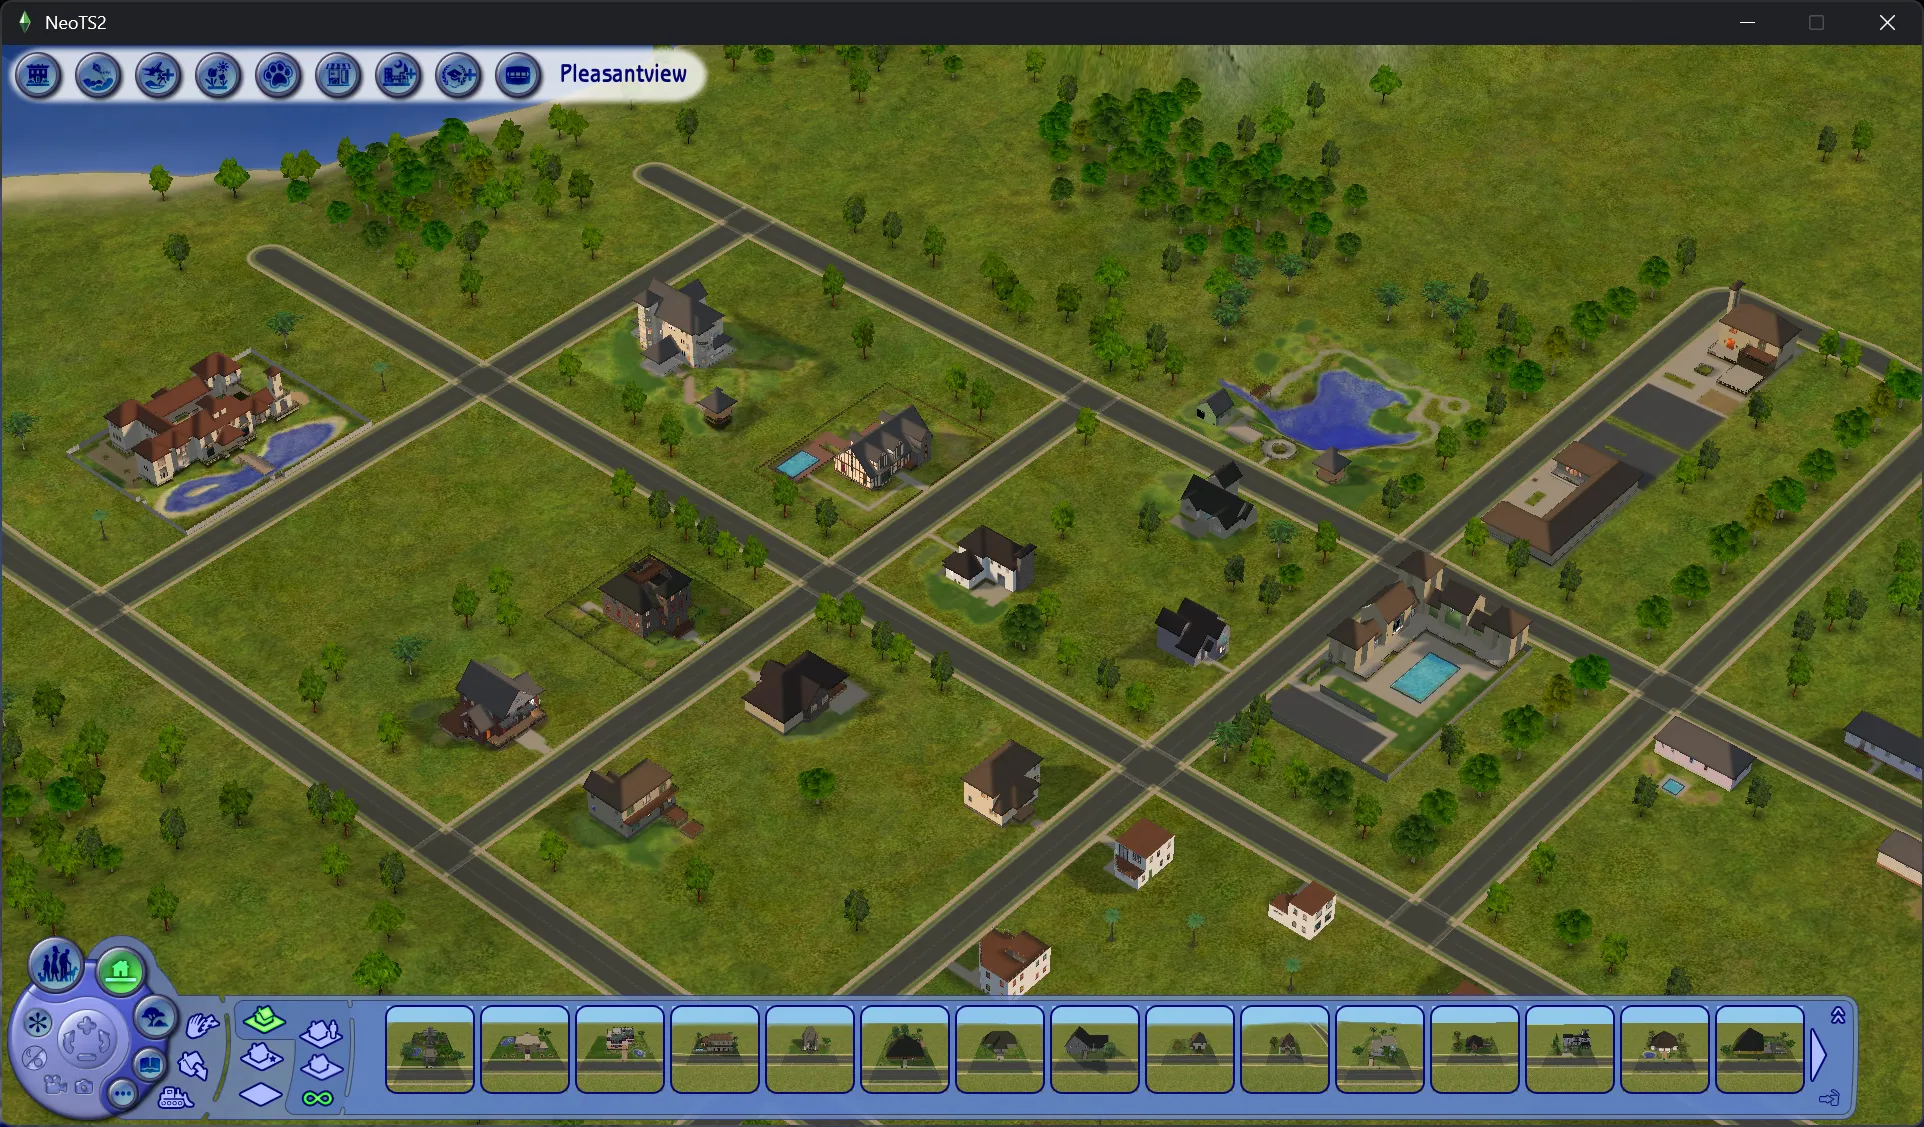
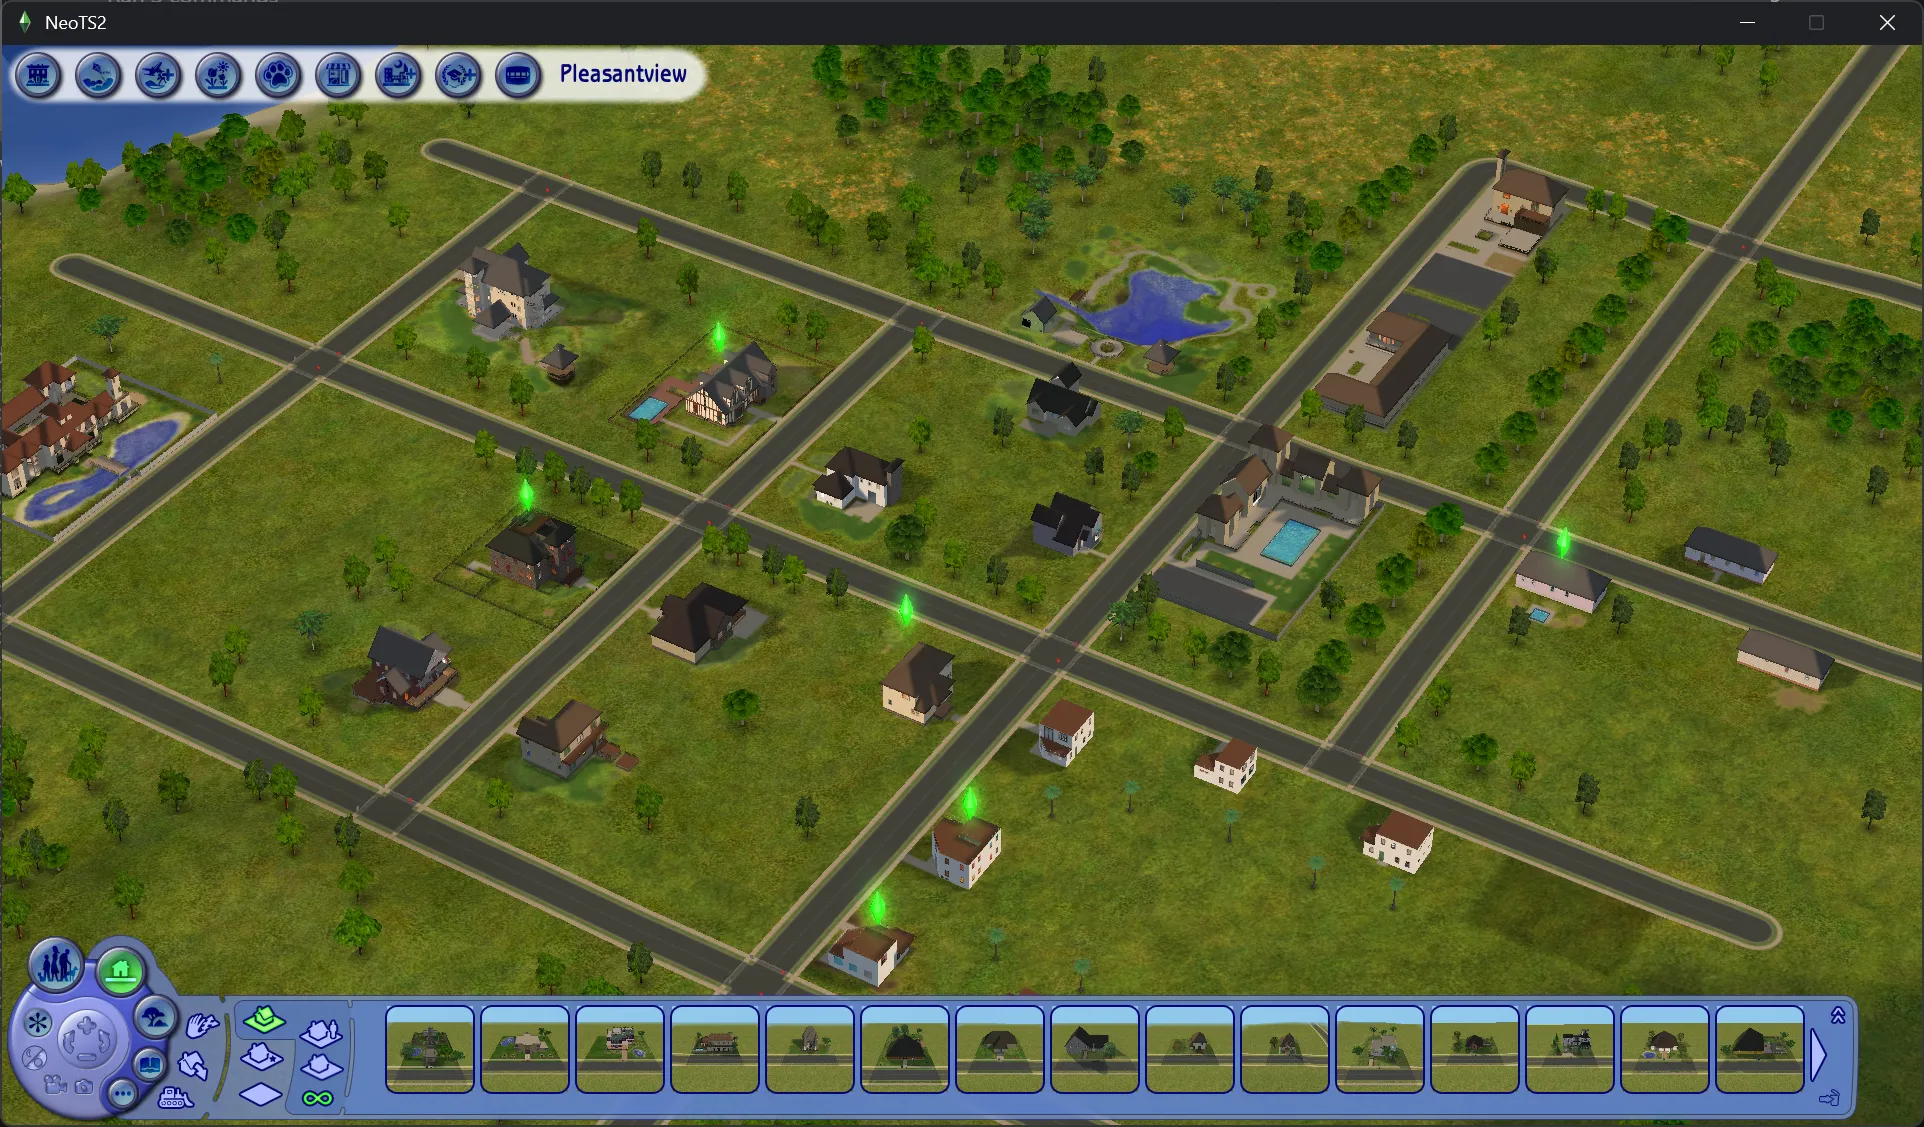
Update the contributing guide, credits and neighborhood screenshot
- CONTRIBUTING: how pull requests are merged, and a few code rules
- README: credit kouta-kun for the Linux build, Vulkan path, OpenGL 2 renderer and PowerPC port
- A new Pleasantview screenshot

diff --git a/CONTRIBUTING.md b/CONTRIBUTING.md
@@ -9,6 +9,20 @@ Thanks for helping. A few rules keep the project healthy and legally clean.
 - **Code taken from the game**, or from other projects whose license doesn't allow it.
 - **Personal or local details**: paths on your machine, logs, traces.
 
-## Code style
+## How pull requests are merged
 
-Follow the surrounding code: C++20, the existing naming and formatting.
+NeoTS2 is developed in a private repository, and this one gets a snapshot of it every few days.
+So a pull request can't be merged here directly. Once it's reviewed and ready, I bring it into the
+private repository, and it comes out in the next snapshot. You're the author of that commit, and
+credited in the README. Then I close the pull request with a link to it.
+
+If you build on top of your own open pull request, expect to rebase onto the snapshot once it's out.
+
+## Code
+
+- Follow the surrounding code: C++20, the existing naming and formatting.
+- Game files are untrusted input. Check every size, count and index read from them before using it.
+- Behaviour should match the original game. Say in the pull request how you checked it.
+- Comments say what and why, in plain sentences.
+- Windows players should see no change from work aimed at other systems, unless that's the point
+  of the change.

diff --git a/README.md b/README.md
@@ -174,6 +174,9 @@ reference (none of its code is used). The AI has likely picked up general knowle
 formats and where things are stored, from public community work such as
 [OpenTS2](https://github.com/LazyDuchess/OpenTS2). None of OpenTS2's code is used.
 
+Thanks to [kouta-kun](https://github.com/kouta-kun) for the Linux build, the Vulkan path, the
+OpenGL 2 renderer and the Mac OS X PowerPC port.
+
 The app and launcher icons are hand-drawn by me.
 
 The launcher uses [Dear ImGui](https://github.com/ocornut/imgui) (MIT) and the
